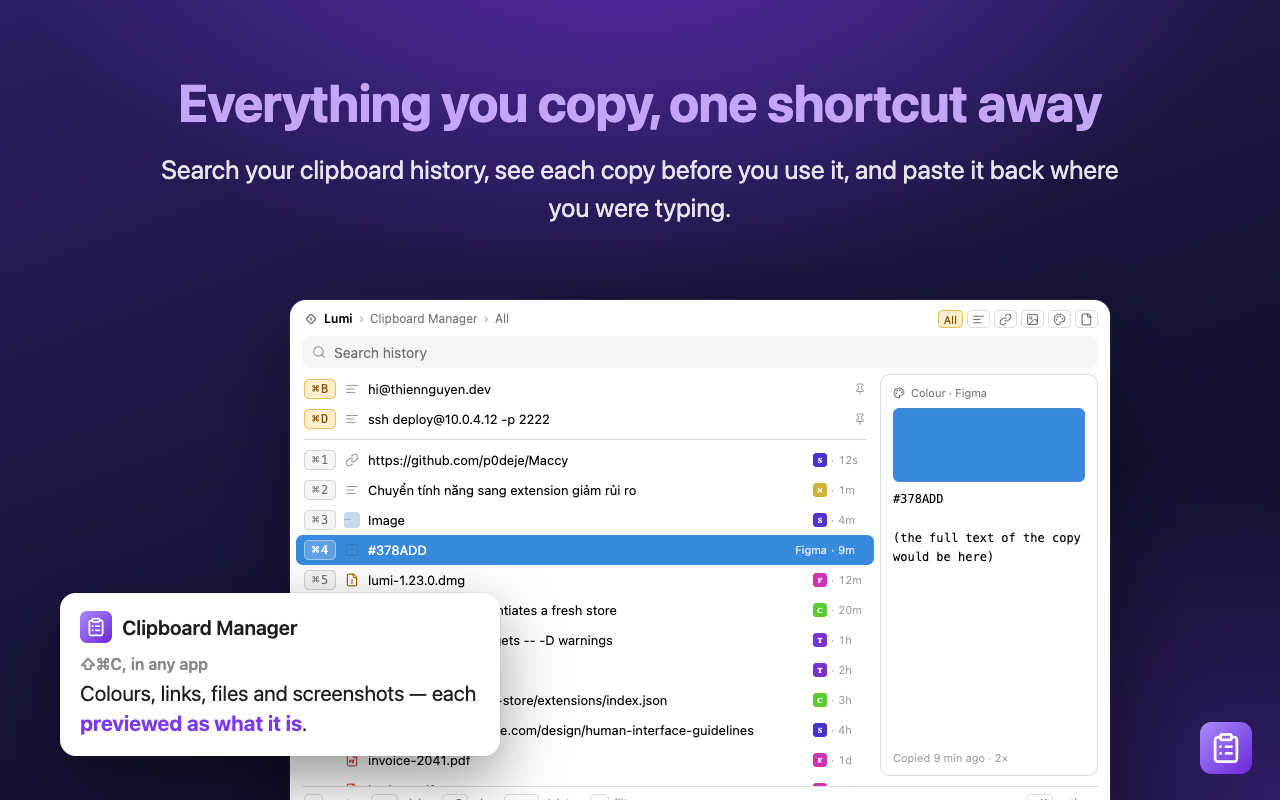
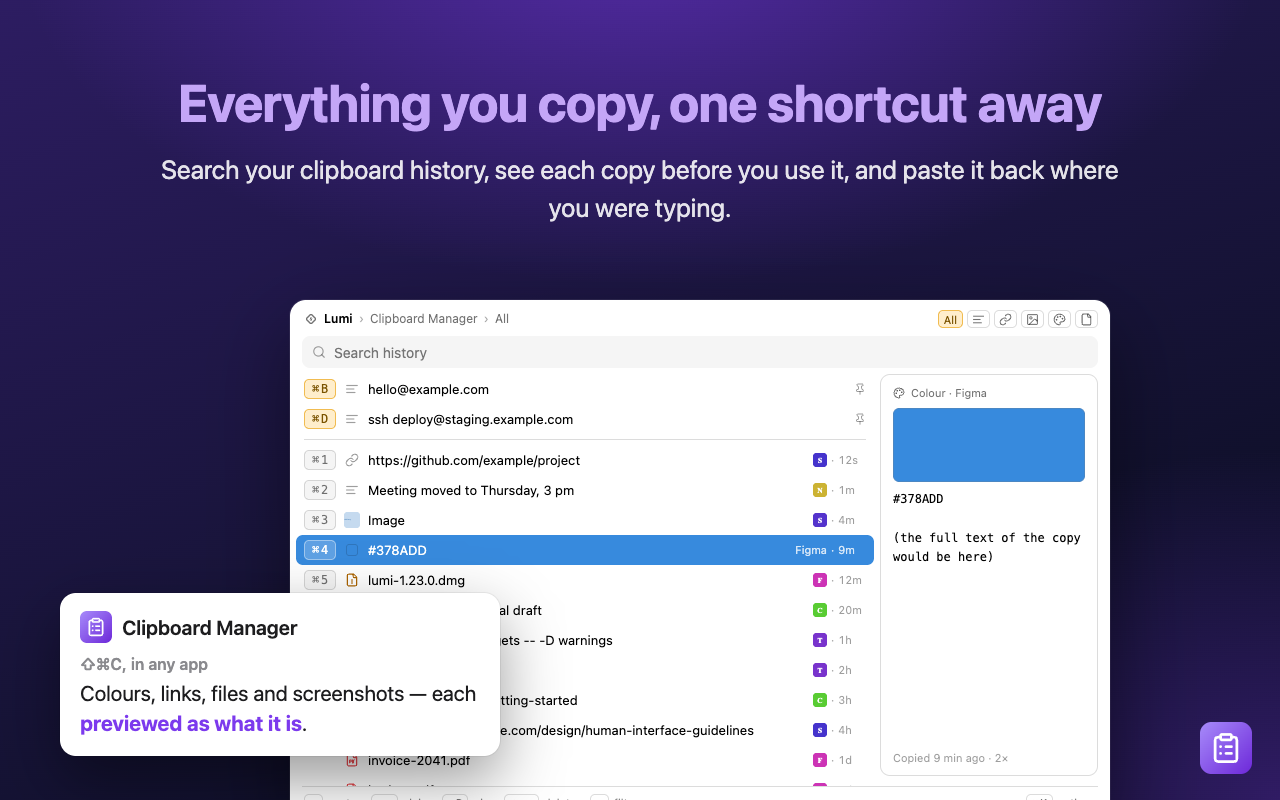
chore(clipboard): neutral mock history for store pictures
The dev mock's history is what the store's picture of the panel shows,
so it holds example addresses and plain English now, and names no other
app or person.

diff --git a/ext/dev.thiennguyen.clipboard/web/src/dev/mock.ts b/ext/dev.thiennguyen.clipboard/web/src/dev/mock.ts
@@ -34,17 +34,17 @@ function entry(partial: Partial<Entry> & Pick<Entry, "id" | "kind" | "title">): 
 }
 
 let rows: Entry[] = [
-  entry({ id: "a", kind: "text", title: "hi@thiennguyen.dev", pin: "b", appName: "Mail", count: 3, last: now - 2 * 86_400_000 }),
-  entry({ id: "b", kind: "text", title: "ssh deploy@10.0.4.12 -p 2222", pin: "d", appName: "Terminal", count: 12, last: now - 7 * 86_400_000 }),
-  entry({ id: "c", kind: "link", title: "https://github.com/p0deje/Maccy", appName: "Safari", last: now - 10_000 }),
-  entry({ id: "d", kind: "text", title: "Chuyển tính năng sang extension giảm rủi ro", appName: "Notes", last: now - min }),
+  entry({ id: "a", kind: "text", title: "hello@example.com", pin: "b", appName: "Mail", count: 3, last: now - 2 * 86_400_000 }),
+  entry({ id: "b", kind: "text", title: "ssh deploy@staging.example.com", pin: "d", appName: "Terminal", count: 12, last: now - 7 * 86_400_000 }),
+  entry({ id: "c", kind: "link", title: "https://github.com/example/project", appName: "Safari", last: now - 10_000 }),
+  entry({ id: "d", kind: "text", title: "Meeting moved to Thursday, 3 pm", appName: "Notes", last: now - min }),
   entry({ id: "e", kind: "image", title: "Image", thumb: "shot", appName: "Screenshot", last: now - 4 * min, search: "lumi · clipboard · search history", ocr: true }),
   entry({ id: "f", kind: "color", title: "#378ADD", appName: "Figma", count: 2, last: now - 9 * min }),
   entry({ id: "g", kind: "file", title: "/Users/me/Downloads/lumi-1.23.0.dmg", fileExt: "dmg", appName: "Finder", last: now - 12 * min }),
-  entry({ id: "h", kind: "rich", title: "Every guest call instantiates a fresh store", appName: "Chrome", last: now - 20 * min }),
+  entry({ id: "h", kind: "rich", title: "Quarterly report — final draft", appName: "Chrome", last: now - 20 * min }),
   entry({ id: "i", kind: "text", title: "cargo clippy --all-targets -- -D warnings", appName: "Terminal", count: 5, last: now - 60 * min }),
   entry({ id: "j", kind: "text", title: "pnpm tauri dev", appName: "Terminal", count: 9, last: now - 120 * min }),
-  entry({ id: "k", kind: "text", title: "thiennguyen.dev/lumi-store/extensions/index.json", appName: "Chrome", last: now - 180 * min }),
+  entry({ id: "k", kind: "text", title: "example.com/docs/getting-started", appName: "Chrome", last: now - 180 * min }),
   entry({ id: "l", kind: "link", title: "https://developer.apple.com/design/human-interface-guidelines", appName: "Safari", last: now - 240 * min }),
   entry({ id: "m", kind: "file", title: "/Users/me/Desktop/invoice-2041.pdf", fileExt: "pdf", appName: "Finder", last: now - 26 * 60 * min }),
   entry({ id: "m2", kind: "file", title: "/Users/me/Desktop/broken.pdf", fileExt: "pdf", appName: "Finder", last: now - 26 * 60 * min - 1 }),
